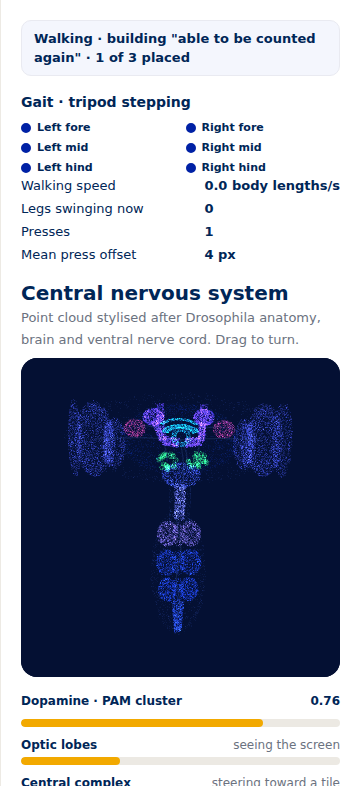
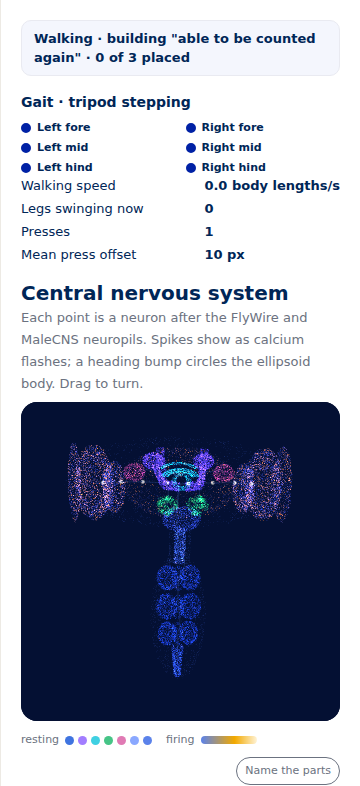
Brain: neurons that spike, and circuit dynamics after the imaging research
Each point now fires on its own: region activity sets the spike rate and
each spike shows as a calcium flash with a fast rise and slow decay. The
ellipsoid body and protocerebral bridge carry a heading bump that follows
the fly's yaw, the fan-shaped body bump shifts with turning, optic-flow
waves cross the optic lobes with walking speed and the lobula plates
answer turns, Kenyon cells fire sparsely, a reward sweeps dopamine along
the mushroom-body lobe compartments and a punishment lights the alpha-lobe
tip, each reward brings an odour that lights its own glomeruli, and each
leg hemineuromere follows its leg's swing.

The panel gains the poster's numbered neuropils (Name the parts) and a
resting-hue and firing key.

Changed region(s): [[0.0611, 0.3969, 0.9472, 1.0], [0.55, 0.3053, 0.6722, 0.3359], [0.2444, 0.0611, 0.3056, 0.0916]]

diff --git a/index.html b/index.html
@@ -124,6 +124,10 @@ main{flex-grow:1;min-height:0;display:flex;flex-direction:column}
 .feet{display:grid;grid-template-columns:repeat(2,1fr);gap:4px 10px;font:700 11px/16px var(--display)}
 .feet span{display:flex;align-items:center;gap:6px}.feet i{width:10px;height:10px;border-radius:50%;border:2px solid var(--core-blue)}.feet i.on{background:var(--core-blue)}
 #brain{display:block;width:100%;aspect-ratio:1/1;border-radius:16px;background:#041033;cursor:grab}
+#brainWrap{position:relative}#brainLbl{position:absolute;inset:0;pointer-events:none;overflow:hidden;border-radius:16px}
+#brainLbl span{position:absolute;width:18px;height:18px;margin:-9px 0 0 -9px;border-radius:50%;background:#fff;border:2px solid;box-sizing:border-box;font:700 10px/14px var(--display);color:#002657;text-align:center;pointer-events:auto;cursor:help}
+.brainKey{display:flex;align-items:center;flex-wrap:wrap;gap:4px;row-gap:6px;font-size:11px;color:var(--muted, #6b7280)}.brainKey span{margin-right:2px}.brainKey i{width:9px;height:9px;border-radius:50%}.brainKey button{margin-left:auto;white-space:nowrap}.brainKey b{width:56px;height:8px;border-radius:4px;background:linear-gradient(90deg,#5b82ea,#f2a900 60%,#fff3d6)}
+button.mini{font:inherit;font-size:11px;padding:2px 8px;border-radius:999px;border:1px solid currentColor;background:transparent;color:inherit;cursor:pointer}button.mini[aria-pressed=true]{background:#002657;color:#fff;border-color:#002657}
 .regions{list-style:none;margin:0;padding:0;display:flex;flex-direction:column;gap:10px}
 .regions li{display:flex;flex-direction:column;gap:4px}
 .rowlbl{display:flex;justify-content:space-between;gap:8px;font:700 12px/16px var(--display)}
@@ -463,9 +467,10 @@ pre.mermaid svg{max-width:none;height:auto}
       <section data-rp="1 2 3 4 7 8 9 10 11 12 13 14 15" style="display:flex;flex-direction:column;gap:8px">
         <div>
           <h2>Central nervous system</h2>
-          <span class="sub">Neuropils after the FlyWire and MaleCNS atlases, each in its own hue; amber is firing. Drag to turn.</span>
+          <span class="sub">Each point is a neuron after the FlyWire and MaleCNS neuropils. Spikes show as calcium flashes; a heading bump circles the ellipsoid body. Drag to turn.</span>
         </div>
-        <canvas id="brain" aria-label="Rotating point cloud of the fly's brain; regions brighten when active"></canvas>
+        <div id="brainWrap"><canvas id="brain" aria-label="Rotating point cloud of the fly's nervous system; neurons flash as they fire"></canvas><div id="brainLbl" hidden></div></div>
+        <div class="brainKey"><span class="brainKey" aria-hidden="true"><span>resting</span><i style="background:#3f74e0"></i><i style="background:#a27dff"></i><i style="background:#3fd0e2"></i><i style="background:#46c486"></i><i style="background:#e07ab4"></i><i style="background:#8aa8ff"></i><i style="background:#5b82ea"></i><span style="margin-left:10px">firing</span><b></b></span><button type="button" id="brainLblBtn" class="mini" aria-pressed="false">Name the parts</button></div>
       </section>
       <section data-rp="1 2 3 4 7 8 9 10 11 12 13 14 15" style="display:flex;flex-direction:column;gap:10px">
         <div class="rowlbl"><span>Dopamine · PAM cluster</span><span id="dopaVal">0.50</span></div>
@@ -736,7 +741,7 @@ pre.mermaid svg{max-width:none;height:auto}
         <figure><img loading="lazy" src="docs/screenshots/whole-phone.png" alt="Whole-phone camera: the lesson screen with three slots and four tiles"><figcaption><strong>The screen.</strong> A canvas texture: progress, the meaning to build, three slots, four tiles, a feedback line. Tile pixel rectangles map to world coordinates the fly walks to.</figcaption></figure>
         <figure><img loading="lazy" src="docs/screenshots/tap.png" alt="A wrong tap: the tile edge flashes red"><figcaption><strong>A wrong tap.</strong> The tile flashes red, the lateral horn and descending neurons fire, the fly flinches, dopamine drops and that word part's memory weakens.</figcaption></figure>
         <figure><img loading="lazy" src="docs/screenshots/reward.png" alt="A correct tap: re- fills the prefix slot and dopamine rises"><figcaption><strong>A correct tap.</strong> The part fills its slot, mushroom bodies and taste centres fire, the wings buzz, the proboscis extends, and the memory strengthens.</figcaption></figure>
-        <figure><img loading="lazy" src="docs/screenshots/brain-panel.png" alt="The brain panel with point cloud, dopamine meter and region bars"><figcaption><strong>The brain panel.</strong> About 57,000 points shaped after Drosophila anatomy, fibre tracts with travelling pulses, dopamine, per-region activity and per-morpheme memory.</figcaption></figure>
+        <figure><img loading="lazy" src="docs/screenshots/brain-panel.png" alt="The brain panel with point cloud, dopamine meter and region bars"><figcaption><strong>The brain panel.</strong> About 57,000 neurons shaped after Drosophila anatomy that spike as calcium flashes, with a heading bump in the ellipsoid body, fibre tracts with travelling pulses, dopamine, per-region activity and per-morpheme memory.</figcaption></figure>
         <figure><img loading="lazy" src="docs/screenshots/exp2-hover.png" alt="The fly hovering above the phone with a flight path behind it"><figcaption><strong>Reading in the air.</strong> In Experiment 2 the fly climbs to a hover point over the meaning and reads with a head sweep before diving.</figcaption></figure>
         <figure><img loading="lazy" src="docs/screenshots/exp3-swipe.png" alt="The fly holding a fly-sized phone with a scrolled list of answers"><figcaption><strong>Swiping.</strong> In Experiment 3 the answers sit below the fold; a foreleg drag scrolls them into reach.</figcaption></figure>
       </div>
@@ -1561,33 +1566,34 @@ function plantFeet() { fly.position.copy(flyState.pos); fly.rotation.y = flyStat
 // Each region keeps its id for the activity wiring; its shape is built from ellipsoids (default), tubes, arcs and glomeruli.
 const MIRROR = (sx, parts) => parts.map(q => { const m = v => v && [v[0] * sx, v[1], v[2]]; return { ...q, c: m(q.c), a: m(q.a), b: m(q.b) }; });
 const OPTIC = sx => MIRROR(sx, [
-  { c: [17.3, 2, 0.3], r: [0.9, 6.5, 4.7], n: 1400 },            // lamina, a thin cap
-  { c: [14.2, 2, 0.1], r: [3.1, 6.2, 4.5], n: 4200 },            // medulla
-  { c: [11, 1.4, -0.8], r: [1.9, 4.4, 3], n: 1500 },                   // lobula
-  { c: [12, 1.6, -3.1], r: [1.1, 4, 1.7], n: 900 },                      // lobula plate
+  { c: [17.3, 2, 0.3], r: [0.9, 6.5, 4.7], n: 1400, part: 1 },  // lamina, a thin cap
+  { c: [14.2, 2, 0.1], r: [3.1, 6.2, 4.5], n: 4200, part: 2 },  // medulla
+  { c: [11, 1.4, -0.8], r: [1.9, 4.4, 3], n: 1500, part: 3 },   // lobula
+  { c: [12, 1.6, -3.1], r: [1.1, 4, 1.7], n: 900, part: 4 },    // lobula plate
 ]);
 const MB = sx => MIRROR(sx, [
-  { c: [4.4, 6.2, -3.2], r: [1.9, 1.5, 1.4], n: 1500 },                    // calyx
-  { tube: 1, a: [4.2, 5.2, -2.2], b: [3.1, 1.6, 2.4], rad: 0.55, n: 700 },  // peduncle
-  { tube: 1, a: [3.1, 1.6, 2.4], b: [3.6, 7.4, 3], rad: 0.7, n: 900 },     // α lobe, vertical
-  { tube: 1, a: [3.1, 1.6, 2.4], b: [0.5, 1.2, 2.8], rad: 0.8, n: 1000 },  // β and γ lobes, toward the midline
+  { c: [4.4, 6.2, -3.2], r: [1.9, 1.5, 1.4], n: 1500, part: 5 },                    // calyx
+  { tube: 1, a: [4.2, 5.2, -2.2], b: [3.1, 1.6, 2.4], rad: 0.55, n: 700, part: 6 },  // peduncle
+  { tube: 1, a: [3.1, 1.6, 2.4], b: [3.6, 7.4, 3], rad: 0.7, n: 900, part: 7 },     // α lobe, vertical
+  { tube: 1, a: [3.1, 1.6, 2.4], b: [0.5, 1.2, 2.8], rad: 0.8, n: 1000, part: 8 },  // β and γ lobes, toward the midline
 ]);
 const REGIONS = [
   { name: 'optic-L', c: [-14, 2, 0], extra: OPTIC(-1) }, { name: 'optic-R', c: [14, 2, 0], extra: OPTIC(1) },
   { name: 'central', c: [0, 2, 0], r: [10, 5.9, 4.5], n: 4200, shell: 0.8, extra: [{ c: [0, 5.6, -0.8], r: [6.5, 2.6, 3.4], n: 700, shell: 0.6 }] },
   { name: 'MB-L', c: [-4, 4, 0], extra: MB(-1) }, { name: 'MB-R', c: [4, 4, 0], extra: MB(1) },
   { name: 'CX', c: [0, 3.5, 0.5], extra: [
-    { arc: 1, c: [0, 2.8, -0.2], R: 2.7, rad: 0.7, from: 0.08, to: 0.92, n: 1500 },   // fan-shaped body
-    { ring: 1, c: [0, 2.3, 1.5], R: 1.25, rad: 0.42, n: 900 },                        // ellipsoid body
-    { arc: 1, c: [0, 3.8, -2.6], R: 3.6, rad: 0.38, from: 0.18, to: 0.82, n: 700 } ] }, // protocerebral bridge
-  { name: 'AL-L', c: [-2.4, -1.8, 3.4], extra: [{ glom: 26, c: [-2.4, -1.8, 3.4], r: [1.9, 1.8, 1.7], n: 2000 }] },
-  { name: 'AL-R', c: [2.4, -1.8, 3.4], extra: [{ glom: 26, c: [2.4, -1.8, 3.4], r: [1.9, 1.8, 1.7], n: 2000 }] },
+    { arc: 1, c: [0, 2.8, -0.2], R: 2.7, rad: 0.7, from: 0.08, to: 0.92, n: 1500, part: 9 },   // fan-shaped body
+    { ring: 1, c: [0, 2.3, 1.5], R: 1.25, rad: 0.42, n: 900, part: 10 },                       // ellipsoid body
+    { arc: 1, c: [0, 3.8, -2.6], R: 3.6, rad: 0.38, from: 0.18, to: 0.82, n: 700, part: 11 } ] }, // protocerebral bridge
+  { name: 'AL-L', c: [-2.4, -1.8, 3.4], extra: [{ glom: 26, c: [-2.4, -1.8, 3.4], r: [1.9, 1.8, 1.7], n: 2000, part: 12 }] },
+  { name: 'AL-R', c: [2.4, -1.8, 3.4], extra: [{ glom: 26, c: [2.4, -1.8, 3.4], r: [1.9, 1.8, 1.7], n: 2000, part: 12, gOff: 26 }] },
   { name: 'LH-L', c: [-7.6, 4, -1.4], r: [1.9, 1.6, 1.6], n: 1100 }, { name: 'LH-R', c: [7.6, 4, -1.4], r: [1.9, 1.6, 1.6], n: 1100 },
   { name: 'SEZ', c: [0, -3.9, 1], r: [3.3, 2.2, 2.5], n: 2000 },
   { name: 'DN', c: [0, -8.5, -1], extra: [{ tube: 1, a: [0, -5.6, 0], b: [0, -11.4, -2.2], rad: 1, n: 1400 }] },
-  { name: 'T1', c: [0, -14, -2.6], extra: [{ c: [-2, -14, -2.6], r: [1.9, 2.3, 1.9], n: 1300 }, { c: [2, -14, -2.6], r: [1.9, 2.3, 1.9], n: 1300 }, { c: [0, -14.2, -3.4], r: [1.2, 2.2, 1.2], n: 400 }] },
-  { name: 'T2', c: [0, -19.2, -3.6], extra: [{ c: [-2.1, -19.2, -3.6], r: [2, 2.4, 2], n: 1300 }, { c: [2.1, -19.2, -3.6], r: [2, 2.4, 2], n: 1300 }, { c: [0, -19.4, -4.4], r: [1.2, 2.3, 1.2], n: 400 }] },
-  { name: 'T3', c: [0, -24.2, -4.4], extra: [{ c: [-1.9, -24.2, -4.4], r: [1.8, 2.2, 1.8], n: 1200 }, { c: [1.9, -24.2, -4.4], r: [1.8, 2.2, 1.8], n: 1200 }, { c: [0, -24.4, -5.1], r: [1.1, 2.2, 1.1], n: 350 }] },
+  // each leg neuropil is a left and a right hemineuromere (part 13, sub = the leg it drives) around a midline tectulum
+  { name: 'T1', c: [0, -14, -2.6], extra: [{ c: [-2, -14, -2.6], r: [1.9, 2.3, 1.9], n: 1300, part: 13, sub: 0 }, { c: [2, -14, -2.6], r: [1.9, 2.3, 1.9], n: 1300, part: 13, sub: 1 }, { c: [0, -14.2, -3.4], r: [1.2, 2.2, 1.2], n: 400 }] },
+  { name: 'T2', c: [0, -19.2, -3.6], extra: [{ c: [-2.1, -19.2, -3.6], r: [2, 2.4, 2], n: 1300, part: 13, sub: 2 }, { c: [2.1, -19.2, -3.6], r: [2, 2.4, 2], n: 1300, part: 13, sub: 3 }, { c: [0, -19.4, -4.4], r: [1.2, 2.3, 1.2], n: 400 }] },
+  { name: 'T3', c: [0, -24.2, -4.4], extra: [{ c: [-1.9, -24.2, -4.4], r: [1.8, 2.2, 1.8], n: 1200, part: 13, sub: 4 }, { c: [1.9, -24.2, -4.4], r: [1.8, 2.2, 1.8], n: 1200, part: 13, sub: 5 }, { c: [0, -24.4, -5.1], r: [1.1, 2.2, 1.1], n: 350 }] },
   { name: 'ABD', c: [0, -29.5, -5.4], extra: [{ tube: 1, a: [0, -26.6, -5], b: [0, -32.4, -5.8], rad: 1.2, taper: 0.45, n: 1400 }] },
 ];
 // faint outer envelope, never lit: brain, neck and nerve cord
@@ -1603,33 +1609,57 @@ const pulse = (i, v) => { if (act[i] < v) act[i] = v; };
 function buildBrain() {
   const blobs = []; REGIONS.forEach((r, id) => { if (r.n) blobs.push([r, id]); (r.extra || []).forEach(e => blobs.push([e, id])); }); ENVELOPE.forEach(e => blobs.push([e, 16]));
   const total = blobs.reduce((s, [b]) => s + b.n, 0);
-  const pos = new Float32Array(total * 3), reg = new Float32Array(total), seed = new Float32Array(total);
-  let k = 0; const R = Math.random;
-  const put = (x, y, z, id) => { pos[k * 3] = x; pos[k * 3 + 1] = y; pos[k * 3 + 2] = z; reg[k] = id; seed[k] = R(); k++; };
+  const pos = new Float32Array(total * 3), reg = new Float32Array(total), seed = new Float32Array(total), prt = new Float32Array(total), sub = new Float32Array(total);
+  let k = 0; const R = Math.random; let P = 0, Q = 0; // P: structure of the blob being filled, Q: its per-point coordinate (angle, glomerulus, leg)
+  const put = (x, y, z, id) => { pos[k * 3] = x; pos[k * 3 + 1] = y; pos[k * 3 + 2] = z; reg[k] = id; seed[k] = R(); prt[k] = P; sub[k] = Q; k++; };
   const ball = sh => { let x, y, z; do { x = R() * 2 - 1; y = R() * 2 - 1; z = R() * 2 - 1; } while (x * x + y * y + z * z > 1); const l = Math.hypot(x, y, z) || 1; const f = (sh && R() < sh ? 0.9 + 0.1 * R() : 0.35 + 0.65 * Math.pow(R(), 0.25)) / l; return [x * f, y * f, z * f]; };
   const disc = rad => { const t = R() * Math.PI * 2, r = rad * Math.sqrt(0.25 + 0.75 * R()); return [Math.cos(t) * r, Math.sin(t) * r]; };
   for (const [b, id] of blobs) {
+    P = b.part || 0; Q = b.sub || 0;
     if (b.tube) { const A = b.a, B = b.b, d = [B[0] - A[0], B[1] - A[1], B[2] - A[2]]; const L = Math.hypot(...d); const u = d.map(v => v / L); const ref = Math.abs(u[1]) < 0.9 ? [0, 1, 0] : [1, 0, 0];
       const p = [u[1] * ref[2] - u[2] * ref[1], u[2] * ref[0] - u[0] * ref[2], u[0] * ref[1] - u[1] * ref[0]]; const pl = Math.hypot(...p); p.forEach((v, i) => p[i] = v / pl); const q = [u[1] * p[2] - u[2] * p[1], u[2] * p[0] - u[0] * p[2], u[0] * p[1] - u[1] * p[0]];
-      for (let i = 0; i < b.n; i++) { const t = R(); const rr = b.rad * (1 - (b.taper || 0) * t); const [e1, e2] = b.shell ? (() => { const a2 = R() * Math.PI * 2; return [Math.cos(a2) * rr, Math.sin(a2) * rr]; })() : disc(rr); put(A[0] + d[0] * t + p[0] * e1 + q[0] * e2, A[1] + d[1] * t + p[1] * e1 + q[1] * e2, A[2] + d[2] * t + p[2] * e1 + q[2] * e2, id); } }
-    else if (b.arc || b.ring) { for (let i = 0; i < b.n; i++) { const t = b.ring ? R() * Math.PI * 2 : Math.PI * (b.from + (b.to - b.from) * R()); const [e1, e2] = disc(b.rad); const r = b.R + e1;
+      for (let i = 0; i < b.n; i++) { const t = R(); Q = t; const rr = b.rad * (1 - (b.taper || 0) * t); const [e1, e2] = b.shell ? (() => { const a2 = R() * Math.PI * 2; return [Math.cos(a2) * rr, Math.sin(a2) * rr]; })() : disc(rr); put(A[0] + d[0] * t + p[0] * e1 + q[0] * e2, A[1] + d[1] * t + p[1] * e1 + q[1] * e2, A[2] + d[2] * t + p[2] * e1 + q[2] * e2, id); } }
+    else if (b.arc || b.ring) { for (let i = 0; i < b.n; i++) { const f = R(), t = b.ring ? f * Math.PI * 2 : Math.PI * (b.from + (b.to - b.from) * f); Q = b.ring ? t : f; const [e1, e2] = disc(b.rad); const r = b.R + e1;
         if (b.ring) put(b.c[0] + Math.cos(t) * r, b.c[1] + Math.sin(t) * r, b.c[2] + e2, id); else put(b.c[0] - Math.cos(t) * r, b.c[1] + Math.sin(t) * r * 0.55, b.c[2] + e2, id); } }
     else if (b.glom) { const G = []; for (let g = 0; g < b.glom; g++) { const [x, y, z] = ball(0.8); G.push([b.c[0] + x * b.r[0] * 0.8, b.c[1] + y * b.r[1] * 0.8, b.c[2] + z * b.r[2] * 0.8]); }
-      for (let i = 0; i < b.n; i++) { const g = G[i % G.length]; const [x, y, z] = ball(); put(g[0] + x * 0.42, g[1] + y * 0.42, g[2] + z * 0.42, id); } }
+      for (let i = 0; i < b.n; i++) { const g = G[i % G.length]; Q = (b.gOff || 0) + i % G.length; const [x, y, z] = ball(); put(g[0] + x * 0.42, g[1] + y * 0.42, g[2] + z * 0.42, id); } }
     else for (let i = 0; i < b.n; i++) { const [x, y, z] = ball(b.shell); put(b.c[0] + x * b.r[0], b.c[1] + y * b.r[1], b.c[2] + z * b.r[2], id); }
   }
   const g = new THREE.BufferGeometry();
   g.setAttribute('position', new THREE.BufferAttribute(pos, 3));
   g.setAttribute('region', new THREE.BufferAttribute(reg, 1));
   g.setAttribute('seed', new THREE.BufferAttribute(seed, 1));
+  g.setAttribute('part', new THREE.BufferAttribute(prt, 1)); g.setAttribute('sub', new THREE.BufferAttribute(sub, 1));
   const mat = new THREE.ShaderMaterial({
-    uniforms: { act: { value: act }, pr: { value: Math.min(devicePixelRatio, 2) }, vh: { value: 800 }, base: { value: REGION_HUE.map(c => new THREE.Color(c)) }, env: { value: new THREE.Color(0x8fa6e8) }, hot: { value: new THREE.Color(0xf2a900) } },
-    vertexShader: `uniform float act[16]; uniform vec3 base[16]; uniform float pr; uniform float vh; attribute float region; attribute float seed; varying float vA; varying float vS; varying float vE; varying vec3 vB;
-      void main(){ int r=int(region+0.5); float a=0.0; vB=vec3(0.5,0.6,0.9); for(int i=0;i<16;i++){ if(i==r){ a=act[i]; vB=base[i]; } } vA=a; vS=seed; vE=r==16?1.0:0.0;
-        vec4 mv=modelViewMatrix*vec4(position,1.0); gl_PointSize=(1.7+3.2*a)*pr*clamp(vh/800.0,0.4,1.4)*(60.0/-mv.z); gl_Position=projectionMatrix*mv; }`,
+    uniforms: { act: { value: act }, pr: { value: Math.min(devicePixelRatio, 2) }, vh: { value: 800 }, uT: { value: 0 }, uHead: { value: 0 }, uFlow: { value: 0 }, uTurn: { value: 0 }, uRew: { value: 99 }, uPun: { value: 99 }, uOdor: { value: 0 }, uSwing: { value: new Float32Array(6) }, base: { value: REGION_HUE.map(c => new THREE.Color(c)) }, env: { value: new THREE.Color(0x8fa6e8) }, hot: { value: new THREE.Color(0xf2a900) } },
+    // Each point is a neuron. Region activity sets how often it fires; each spike shows as a calcium transient (fast rise, slow decay),
+    // and circuits with known dynamics get them: a heading bump in the central complex, optic flow in the optic lobes,
+    // sparse Kenyon cells and dopamine compartments in the mushroom bodies, odour-specific glomeruli, and each leg's own hemineuromere.
+    vertexShader: `uniform float act[16]; uniform vec3 base[16]; uniform float pr; uniform float vh; uniform float uT; uniform float uHead; uniform float uFlow; uniform float uTurn; uniform float uRew; uniform float uPun; uniform float uOdor; uniform float uSwing[6];
+      attribute float region; attribute float seed; attribute float part; attribute float sub; varying float vA; varying float vS; varying float vE; varying vec3 vB;
+      float h1(float n){ return fract(sin(n * 12.9898) * 43758.5453); }
+      float bump(float d, float w){ d = mod(d + 3.14159, 6.28318) - 3.14159; return exp(-d * d / (2.0 * w * w)); }
+      void main(){ int r=int(region+0.5); float a=0.0; vB=vec3(0.5,0.6,0.9); for(int i=0;i<16;i++){ if(i==r){ a=act[i]; vB=base[i]; } }
+        float drive = max(0.0, (a - 0.08) / 0.92), gain = 1.0, tonic = 0.0, rate = 5.0; int p = int(part + 0.5);
+        if (p >= 1 && p <= 3) { float side = position.x < 0.0 ? -1.0 : 1.0; float w = 0.5 + 0.5 * sin(position.z * 1.1 + position.y * 0.45 - uT * (1.5 + 7.0 * uFlow) * side - uTurn * position.y * 0.6); gain = 0.3 + 1.4 * w * (0.35 + uFlow); }
+        else if (p == 4) { gain = 0.25 + 2.2 * max(0.0, uTurn * (position.x < 0.0 ? -1.0 : 1.0)); }
+        else if (p >= 5 && p <= 8) { gain = 0.4; rate = 3.0;
+          if (p == 8) tonic += 0.9 * exp(-uRew * 1.4) * (0.5 + 0.5 * sin(sub * 16.0 - uRew * 8.0));
+          if (p == 7) tonic += 0.8 * exp(-uPun * 1.6) * smoothstep(0.55, 0.95, sub); }
+        else if (p == 10) { tonic += (0.25 + drive) * 0.95 * bump(sub - uHead, 0.5); gain = 0.25; }
+        else if (p == 11) { tonic += (0.2 + drive) * 0.8 * bump(fract(sub * 2.0) * 6.28318 - uHead, 0.55); gain = 0.25; }
+        else if (p == 9) { tonic += drive * 0.9 * bump(sub * 6.28318 - uHead - uTurn * 1.4, 0.65); gain = 0.35; }
+        else if (p == 12) { float on = step(h1(sub * 7.13 + uOdor * 3.71), 0.2); gain = 0.12 + 2.4 * on; rate = 8.0; }
+        else if (p == 13) { int L = int(sub + 0.5); float sw = 0.0; for (int i = 0; i < 6; i++) { if (i == L) sw = uSwing[i]; } tonic += 0.8 * sw * (0.3 + drive); gain = 0.5; }
+        float k = uT * rate + seed * 97.0, n = floor(k), ph = fract(k);
+        float fire = step(h1(n + seed * 311.0), clamp(drive * gain * 0.85 + 0.012, 0.0, 0.95));
+        float ca = fire * (1.0 - exp(-ph * 25.0)) * exp(-ph * 1.8);
+        float v = clamp(0.08 + drive * 0.22 + ca * 0.85 + tonic, 0.0, 1.2);
+        vA = r == 16 ? 0.0 : v; vS = seed; vE = r == 16 ? 1.0 : 0.0;
+        vec4 mv=modelViewMatrix*vec4(position,1.0); gl_PointSize=(1.7+3.2*min(vA,1.0))*pr*clamp(vh/800.0,0.4,1.4)*(60.0/-mv.z); gl_Position=projectionMatrix*mv; }`,
     fragmentShader: `precision mediump float; varying float vA; varying float vS; varying float vE; varying vec3 vB; uniform vec3 hot; uniform vec3 env;
-      void main(){ vec2 c=gl_PointCoord-0.5; float d=dot(c,c); if(d>0.25) discard; float al=(0.3+0.45*vA)*smoothstep(0.25,0.04,d);
-        vec3 col=mix(vB,hot,clamp((vA-0.1)*1.25*(0.7+0.3*vS),0.0,1.0)); if(vE>0.5){ col=env; al*=0.45; } gl_FragColor=vec4(col,al); }`,
+      void main(){ vec2 c=gl_PointCoord-0.5; float d=dot(c,c); if(d>0.25) discard; float al=(0.3+0.45*min(vA,1.0))*smoothstep(0.25,0.04,d);
+        vec3 col=mix(vB,hot,clamp((vA-0.12)*1.3*(0.7+0.3*vS),0.0,1.0)); col=mix(col,vec3(1.0,0.95,0.8),clamp(vA-0.95,0.0,0.25)*2.0); if(vE>0.5){ col=env; al*=0.45; } gl_FragColor=vec4(col,al); }`,
     transparent: true, depthWrite: false, blending: THREE.AdditiveBlending,
   });
   return new THREE.Points(g, mat);
@@ -1642,6 +1672,30 @@ const camera2 = new THREE.PerspectiveCamera(38, 1, 0.1, 400); camera2.position.s
 const controls2 = new OrbitControls(camera2, brainCanvas); controls2.target.set(0, -11, 0); controls2.enableDamping = true; controls2.autoRotate = !matchMedia('(prefers-reduced-motion: reduce)').matches; controls2.autoRotateSpeed = 0.9; controls2.enablePan = false;
 const brainGroup = new THREE.Group(); scene2.add(brainGroup);
 const brainPts = buildBrain(); brainGroup.add(brainPts);
+// what the brain shader needs from the body each frame; a rise in dopamine marks a reward, a fall a punishment
+const neuro = { prevPos: new THREE.Vector3(), prevYaw: 0, flow: 0, turn: 0, dopa: 0.5, rewAt: -1e9, punAt: -1e9, odor: 0 };
+function driveBrain(now, raw) {
+  const U = brainPts.material.uniforms, st = flyState; U.uT.value = now / 1000;
+  const sp = raw > 0 ? st.pos.distanceTo(neuro.prevPos) / raw : 0; neuro.prevPos.copy(st.pos);
+  let dy = st.yaw - neuro.prevYaw; dy = Math.atan2(Math.sin(dy), Math.cos(dy)); neuro.prevYaw = st.yaw;
+  const k = Math.min(1, raw * 4); neuro.flow += (Math.min(1, sp / 12) - neuro.flow) * k; neuro.turn += (THREE.MathUtils.clamp(raw > 0 ? dy / raw / 2 : 0, -1, 1) - neuro.turn) * k;
+  U.uHead.value = st.yaw; U.uFlow.value = neuro.flow; U.uTurn.value = neuro.turn;
+  legs.forEach((L, i) => { U.uSwing.value[i] += ((L.step && experiment !== 7 ? 1 : 0) - U.uSwing.value[i]) * Math.min(1, raw * 10); });
+  const d = game.dopamine - neuro.dopa; if (d > 0.04) { neuro.rewAt = now; neuro.odor = (neuro.odor + 1) % 64; } else if (d < -0.04) neuro.punAt = now; neuro.dopa = game.dopamine;
+  U.uRew.value = (now - neuro.rewAt) / 1000; U.uPun.value = (now - neuro.punAt) / 1000; U.uOdor.value = neuro.odor;
+}
+// numbered neuropils, as on the poster; names show on hover
+const BRAIN_LABELS = [['lamina', 'Optic lobe: lamina', [17.3, 2, 0.3], 0], ['medulla', 'Optic lobe: medulla', [14.2, 5.5, 0.1], 0], ['lobula', 'Optic lobe: lobula', [11, -1.8, -0.8], 0],
+  ['calyx', 'Mushroom body calyx: Kenyon cell input', [4.4, 7.4, -3.2], 3], ['lobes', 'Mushroom body α and β/γ lobes: dopamine compartments', [3.6, 7.4, 3], 3],
+  ['fb', 'Fan-shaped body: steering', [0, 4.3, -0.2], 5], ['eb', 'Ellipsoid body: the heading bump', [0, 1.1, 1.5], 5], ['pb', 'Protocerebral bridge', [-2.8, 5.9, -2.6], 5],
+  ['al', 'Antennal lobe glomeruli: smell', [-2.4, -2.2, 3.4], 6], ['sez', 'Suboesophageal zone: taste', [0, -4.6, 1], 10], ['lh', 'Lateral horn: innate avoidance', [-7.6, 4.6, -1.4], 8],
+  ['dn', 'Neck connective: descending neurons', [0, -8.5, -1], 11], ['t1', 'Front-leg neuropil T1', [-3.9, -14, -2.6], 12], ['t2', 'Middle-leg neuropil T2', [3.9, -19.2, -3.6], 13],
+  ['t3', 'Hind-leg neuropil T3', [-3.7, -24.2, -4.4], 14], ['abd', 'Abdominal ganglion', [0, -30.5, -5.4], 15]];
+const brainLblEl = document.getElementById('brainLbl'); let brainLabels = false;
+const brainLblDots = BRAIN_LABELS.map(([, name, , reg], i) => { const e = document.createElement('span'); e.textContent = i + 1; e.title = `${i + 1} · ${name}`; e.style.borderColor = '#' + REGION_HUE[reg].toString(16).padStart(6, '0'); brainLblEl.appendChild(e); return e; });
+const lblV = new THREE.Vector3();
+function placeBrainLabels() { const w = brainCanvas.clientWidth, h = brainCanvas.clientHeight; BRAIN_LABELS.forEach(([, , p], i) => { lblV.set(...p).applyMatrix4(brainGroup.matrixWorld).project(camera2); brainLblDots[i].style.left = ((lblV.x + 1) / 2 * w).toFixed(1) + 'px'; brainLblDots[i].style.top = ((1 - lblV.y) / 2 * h).toFixed(1) + 'px'; }); }
+document.getElementById('brainLblBtn').addEventListener('click', e => { brainLabels = !brainLabels; brainLblEl.hidden = !brainLabels; e.currentTarget.setAttribute('aria-pressed', String(brainLabels)); if (brainLabels) placeBrainLabels(); });
 const FIBRES = [[0, 2], [1, 2], [6, 3], [7, 4], [3, 5], [4, 5], [8, 3], [9, 4], [10, 2], [2, 11], [11, 12], [12, 13], [13, 14], [14, 15]];
 const fibreCurves = FIBRES.map(([a, b]) => { const A = new THREE.Vector3(...REGIONS[a].c), B = new THREE.Vector3(...REGIONS[b].c); const M = A.clone().lerp(B, 0.5); M.z += 2.5; M.x += (Math.random() - 0.5) * 2; return new THREE.CatmullRomCurve3([A, M, B]); });
 {
@@ -5014,7 +5068,7 @@ function frame(now) {
     if (experiment !== 7) { sampleTelemetry(now); sampleScenario(now, dt); }
   }
   updateCamera(); controls2.update(); if (audio.v) updateVoice();
-  if (view === 'simulate') { fitClip(); renderer.render(scene, camera); renderEye(); if (experiment === 7 && visionOn) drawVision(); if (BRAIN_EXPS.includes(experiment)) renderer2.render(scene2, camera2); if (drawDashboards(now)) drawStrip(); if (now - rpAt > 250) { rpAt = now; renderScenario(); } }
+  if (view === 'simulate') { fitClip(); renderer.render(scene, camera); renderEye(); if (experiment === 7 && visionOn) drawVision(); if (BRAIN_EXPS.includes(experiment)) { driveBrain(now, raw); renderer2.render(scene2, camera2); if (brainLabels) placeBrainLabels(); } if (drawDashboards(now)) drawStrip(); if (now - rpAt > 250) { rpAt = now; renderScenario(); } }
   else if (view === 'dash') drawDashboards(now);
 }
 requestAnimationFrame(frame);

diff --git a/CLAUDE.md b/CLAUDE.md
@@ -14,7 +14,7 @@ Fruit Fly Lingo is the interaction layer of the Embodied Drosophila Literacy Sim
 - Fifteen experiments share one brain model and curriculum: 1 Walking (phone on a table), 2 Flying (climb to read, dive to answer, paths and landing heatmap), 3 Touch (fly-sized phone, swipe and tap), 4 Spelling (real-size laptop, fly key to key), 5 Teacher (fly-sized laptop, trackpad only, grades Flies A to D from a gradebook fed by the other experiments' real trials), 6 District admin (3 × 3 webcam grid of student simulations, vision overlay boxing flies, forelegs and gaze, FlyAI rule-based flags, seeded cheating scored for precision), 7 Classroom (24 student flies, 12 female and 12 male, at six round tables with a fly-sized tablet each in mating season: courtship with one-wing song, female rejection by ignoring, wing flick and kick or decamping, courtship conditioning lowering male drive, rival wing threats and lunges, grooming, glancing at neighbours, co-action; every fly must finish twelve items; click a fly to follow it; no fly-eye inset here, instead an optional vision overlay boxes every fly, its forelegs and its gaze with eye-contact badges and trails), 8 Phonics (phonics app on the phone; the fly stands on the mic facing the word, holds it down with a foreleg and sings each sound with one extended wing: pulse song for stops, formant-shaped hum for vowels, fluttered hiss for fricatives; a live Web Audio fly buzz that plays only while it sings, on by default when Phonics opens; letter-sound memory and a confusion matrix), 9 Reading (tablet on a stand with a LitLab-style illustrated storybook app; four six-page stories in STORIES with vocabulary, Stop & Think and comprehension checks; the fly hovers, bobs, reads aloud in the same wing buzz with the word highlighted, opens on a library grid of all four books and taps one, flies up to tap Next, answers, and after each story picks the next from the other three; pages use AI-generated images (originals under each story's title in docs/stories, web copies <story>-p<page>.jpg listed in manifest.json), falling back to a painted scene if one is missing; prompts in docs/stories/prompts.md; while reading, the fly's position is a spring chasing the current word, with a hop onto each word), 10 Writing (phone cursive writing app with twelve Greek roots in GREEK; the fly flies pitched nose-up (flyState.pitchOverride) and traces the answer with its abdomen tip using the embedded Hershey Script 1-stroke lowercase glyphs in CURSIVE, lifting for dots and crosses; wobble shrinks with motor skill; taps Submit; recogniser can misread shaky letters), 11 VR (the fly wears a curved visor headset (makeHeadset) and walks on an air-supported ball treadmill; makeStation builds each rig in vrRig: ball, tether boom, control box, laptop on books, cables, with the headset cable rebuilt each step; a second station holds the teacher fly (tfly, a makeRig fly stepped by stepTeacherFly) whose laptop shows vrCanvasT, the same scene rendered from the VR teacher's eyes; the headset is a separate three.js scene, vrScene, rendered to vrCanvas: a third grade classroom where the teacher chalks word parts and the student writes answers in cursive pencil in a booklet while the fly's right foreleg traces them; answers train the shared word part memory), 12 AR (no treadmill: the fly walks on the table in a glass headset, arHeadset; arGroup holds a spatial grid, a floating word frame with three slots and six holographic blocks (arMakeBlock), visible to the arena camera; stepAR walks around blocks (arWalkTo), pinches with the right foreleg and a ray (arPoint), carries, rotates the block until its label faces out, and snaps it in (arPlace); the Headset camera button is the fly's own view), 13 Scrabble (scGroup: a 15 x 15 board with standard premiums SC_PREM, a 98-tile bag, racks; the student is always the fruit fly (applyMainLook) and the opponent scBf is a makeRig body with Morpho wings removed from WING_GROUPS; scMoves finds every legal crossing placement of the words a player knows in SC_WORDS; the fly walks tiles (f_* phases), the butterfly flies them (b_* phases); each learns the opponent's words; state is scr, scoreboard canvas scMini), 14 Paper book (pbGroup: a hardback open on the table showing STORIES flynn, picture left and text right, drawn to canvases pbL and pbR; stepPaperBook reads word by word with the reading voice (updateVoice uses pb.sound), then grips the corner with both forelegs (agent.tapLeg and agent.tapLeg2) and lifts a bent leaf mesh (pbBend: theta at the spine, lead of the outer edge) past upright before it falls; pages flip back after The End), 15 Geography (geoGroup: a school desk, replacing the table, with a globe (geoSpin inside geoTiltG) whose texture geoMap is drawn from docs/geo/countries-110m.json, Natural Earth TopoJSON decoded in the page into GEO_C; GEO_Q holds 49 trivia questions; stepGeo walks to the card, flies to the globe, spins it, flies to the chosen country and taps it; gq.lit colours countries; distance off by great circle).
 - The experiment buttons, side-panel tabs and dashboard jump links show names only, no numbers.
 - In the Simulate view the left dashboard panel, the right scenario panel and the bottom six-chart strip all switch per experiment (DOCK_FOR, data-rp sections and scenarioCard, STRIPS in index.html); teacher and admin show their laptop screen and work queue instead of the brain.
-- A 57,000-point nervous system shaped after the FlyWire and MaleCNS neuropils (optic lobe layers, mushroom body lobes, central complex, glomerular antennal lobes, leg neuropils) lights up by region; the memory rule is Δw = η(R − V), η = 0.22; fifteen dashboards (kinematic, connectomic, psychometric with G-DINA, Half-Life Regression and a Rasch Wright map, curriculum with a toy mLSTM and Decision Transformer divergence, teacher navigation with Fitts' law, district proctoring, classroom social dynamics, phonics and wing song, reading stories aloud, writing Greek roots in cursive, VR classroom, AR word blocks, Scrabble, paper book, geography) run on live telemetry and also dock beside the arena.
+- A 57,000-point nervous system shaped after the FlyWire and MaleCNS neuropils (optic lobe layers, mushroom body lobes, central complex, glomerular antennal lobes, leg neuropils) lights up by region with per-neuron spikes as calcium flashes, an ellipsoid-body heading bump, optic flow, mushroom-body dopamine compartments, odour-specific glomeruli and per-leg hemineuromeres (`driveBrain` feeds the shader); the memory rule is Δw = η(R − V), η = 0.22; fifteen dashboards (kinematic, connectomic, psychometric with G-DINA, Half-Life Regression and a Rasch Wright map, curriculum with a toy mLSTM and Decision Transformer divergence, teacher navigation with Fitts' law, district proctoring, classroom social dynamics, phonics and wing song, reading stories aloud, writing Greek roots in cursive, VR classroom, AR word blocks, Scrabble, paper book, geography) run on live telemetry and also dock beside the arena.
 - Butterfly mode: the header's two logo buttons (data-species) call setSpecies; every wing group in WING_GROUPS carries the fly wing and a butterfly wing (addMorpho, wing sets from makeWingSet: MORPHO for the student and VR teacher, GNV_BUTTERFLIES, six Gainesville species, for the classroom); butterfly mode scales the fly by BF_SCALE 1.8 (classroom BF_SCALE_CLASS 1.3), and tailOffset scales with it, posed by morphoPose (closed at rest with basking, slow deep flaps, bobbing and weaving flight); fruit fly is the default and the choice is kept in localStorage.
 - Layout: #metricsBtn toggles #stage.focus (setFocus), which hides the dock, strip and scenario panel so the arena fills the stage; on by default at 860px wide or less, kept in localStorage ffl-focus. The experiment .seg scrolls within .simctl so speed, camera and Play stay visible; setCamMode pulls the follow camera back on portrait screens.
 - Controls: the Experiment dropdown (#expDrop, expMenuOpen) holds the data-exp buttons; camera 'back' (updateBackCam, povSubject) rides above the insect's thorax along the body's heading; #eyeBtn (setEye, localStorage ffl-eye) hides the eye inset; #bfSpecies (setBfSpecies, bfChoice, localStorage ffl-bf) rebuilds every butterfly wing with buildBf: 'mix' is Morpho plus the classroom's own species, a number is one wing set everywhere. Rendering: far 6000, fog 700 to 2600, fitClip sets the near plane from the viewing distance each frame, and textured PlaneGeometry decals get a polygon offset at start-up.

diff --git a/README.md b/README.md
@@ -100,7 +100,7 @@ Everything is computed from the live session. Where a quantity stands in for a s
 | ![Whole-phone camera: the lesson screen with three slots and four tiles, the fly standing on the pre- tile](docs/screenshots/whole-phone.png) | ![The fly after a wrong tap: the -able tile edge flashes red and the feedback line says to try another tile](docs/screenshots/tap.png) |
 | **Whole phone.** The lesson screen is a canvas texture: progress, the meaning to build, three slots, four tiles, a feedback line. Tile pixel rectangles map to world coordinates the fly walks to. | **A wrong tap.** The tile flashes red, the lateral horn and descending neurons fire, the fly flinches, dopamine drops and that word part's memory weakens slightly. |
 | ![The fly after a correct tap: re- sits in the prefix slot, dopamine is at 0.62 and memory for re- has risen](docs/screenshots/reward.png) | ![The brain panel: point cloud, dopamine meter, region activity bars and word-part memory](docs/screenshots/brain-panel.png) |
-| **A correct tap.** `re-` fills the prefix slot, the mushroom bodies and taste centres fire, dopamine rises, the wings buzz, the proboscis extends, and the memory of `re-` strengthens. | **The brain panel.** About 57,000 points shaped after the FlyWire and MaleCNS neuropils: the lamina, medulla, lobula and lobula plate of each optic lobe, mushroom bodies with calyx, peduncle and α and β/γ lobes, the fan-shaped body, ellipsoid body and protocerebral bridge, antennal lobes built from glomeruli, and paired leg neuropils in the nerve cord. Each neuropil has its own resting hue and turns amber as it fires. Fibre tracts carry travelling pulses; below are a dopamine meter, per-region activity and per-morpheme memory. Drag to turn it. |
+| **A correct tap.** `re-` fills the prefix slot, the mushroom bodies and taste centres fire, dopamine rises, the wings buzz, the proboscis extends, and the memory of `re-` strengthens. | **The brain panel.** About 57,000 points shaped after the FlyWire and MaleCNS neuropils: the lamina, medulla, lobula and lobula plate of each optic lobe, mushroom bodies with calyx, peduncle and α and β/γ lobes, the fan-shaped body, ellipsoid body and protocerebral bridge, antennal lobes built from glomeruli, and paired leg neuropils in the nerve cord. Each neuropil has its own resting hue and turns amber as it fires. Every point behaves as a neuron: region activity sets how often it spikes, and each spike shows as a calcium-imaging flash with a fast rise and slow decay. Circuits with known dynamics follow the research: a heading bump circles the ellipsoid body and the protocerebral bridge as the fly turns (Seelig and Jayaraman 2015), optic-flow waves cross the optic lobes while it moves and the lobula plates answer turns, Kenyon cells fire sparsely, a reward sweeps dopamine along the mushroom-body lobe compartments and a punishment lights the α-lobe tip, each reward brings a new odour that lights its own few antennal-lobe glomeruli, and each leg neuropil hemisegment fires with its own leg's swing. **Name the parts** numbers 16 neuropils, as on the poster. Fibre tracts carry travelling pulses; below are a dopamine meter, per-region activity and per-morpheme memory. Drag to turn it. |
 
 The round inset at the bottom right is the **fly-eye view**: a camera mounted on the fly's head, rendered through a hexagonal ommatidia mosaic (about 750 cells, matching the 4.5° inter-ommatidial angle in the TRD). Letters blur into luminance blocks, which is why the fly has to sweep its head to resolve them.
 
